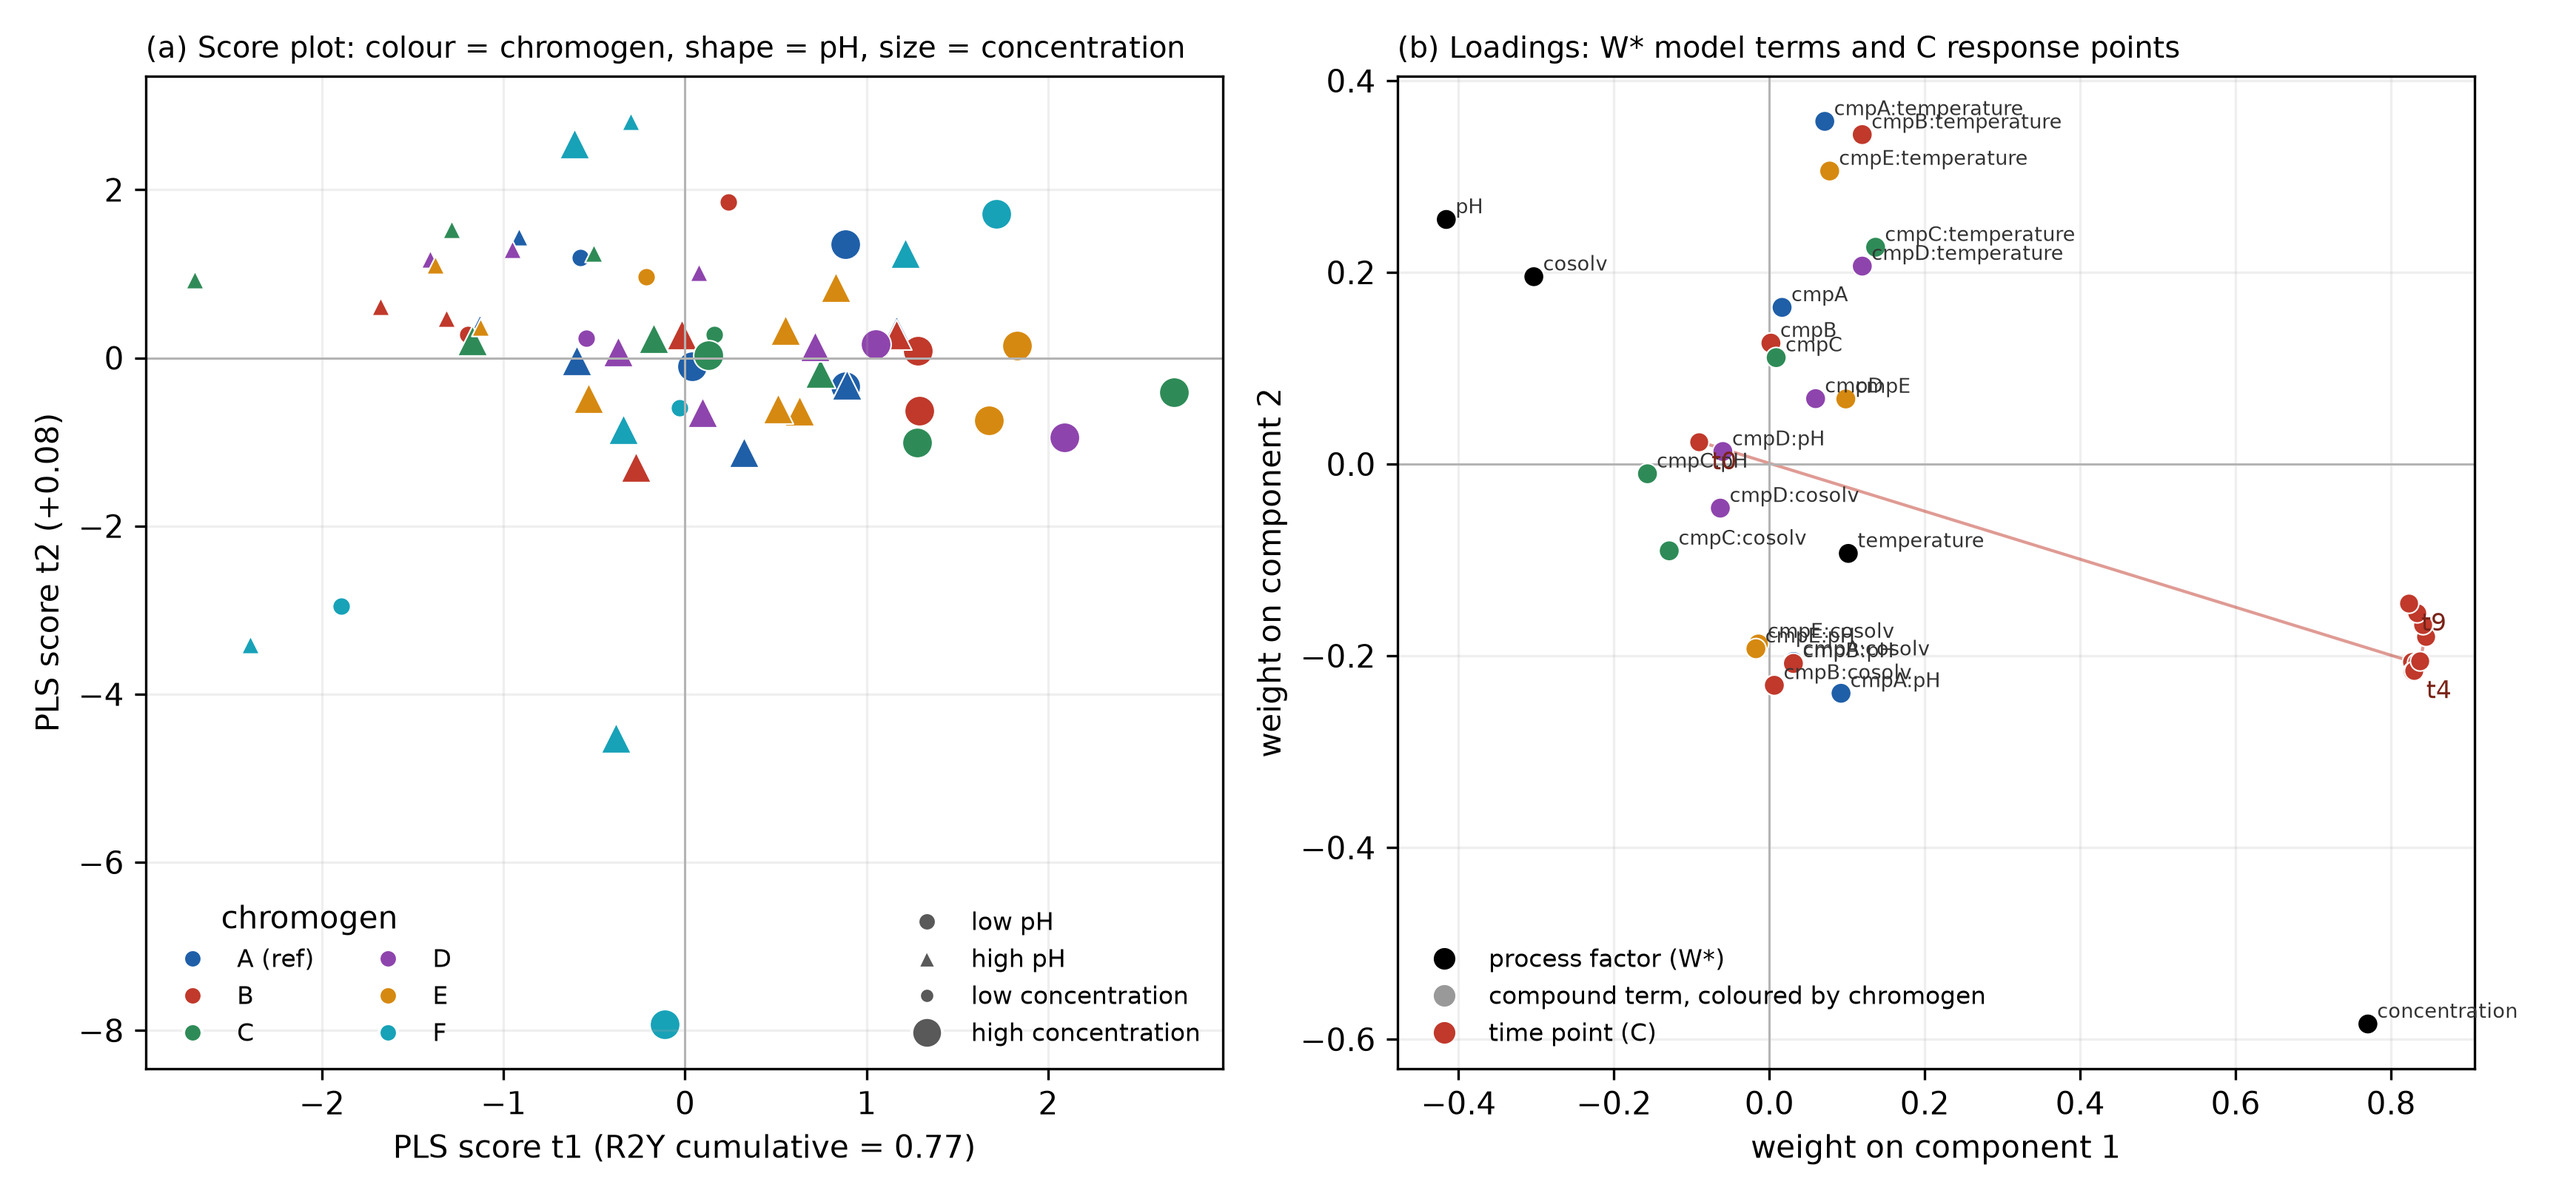
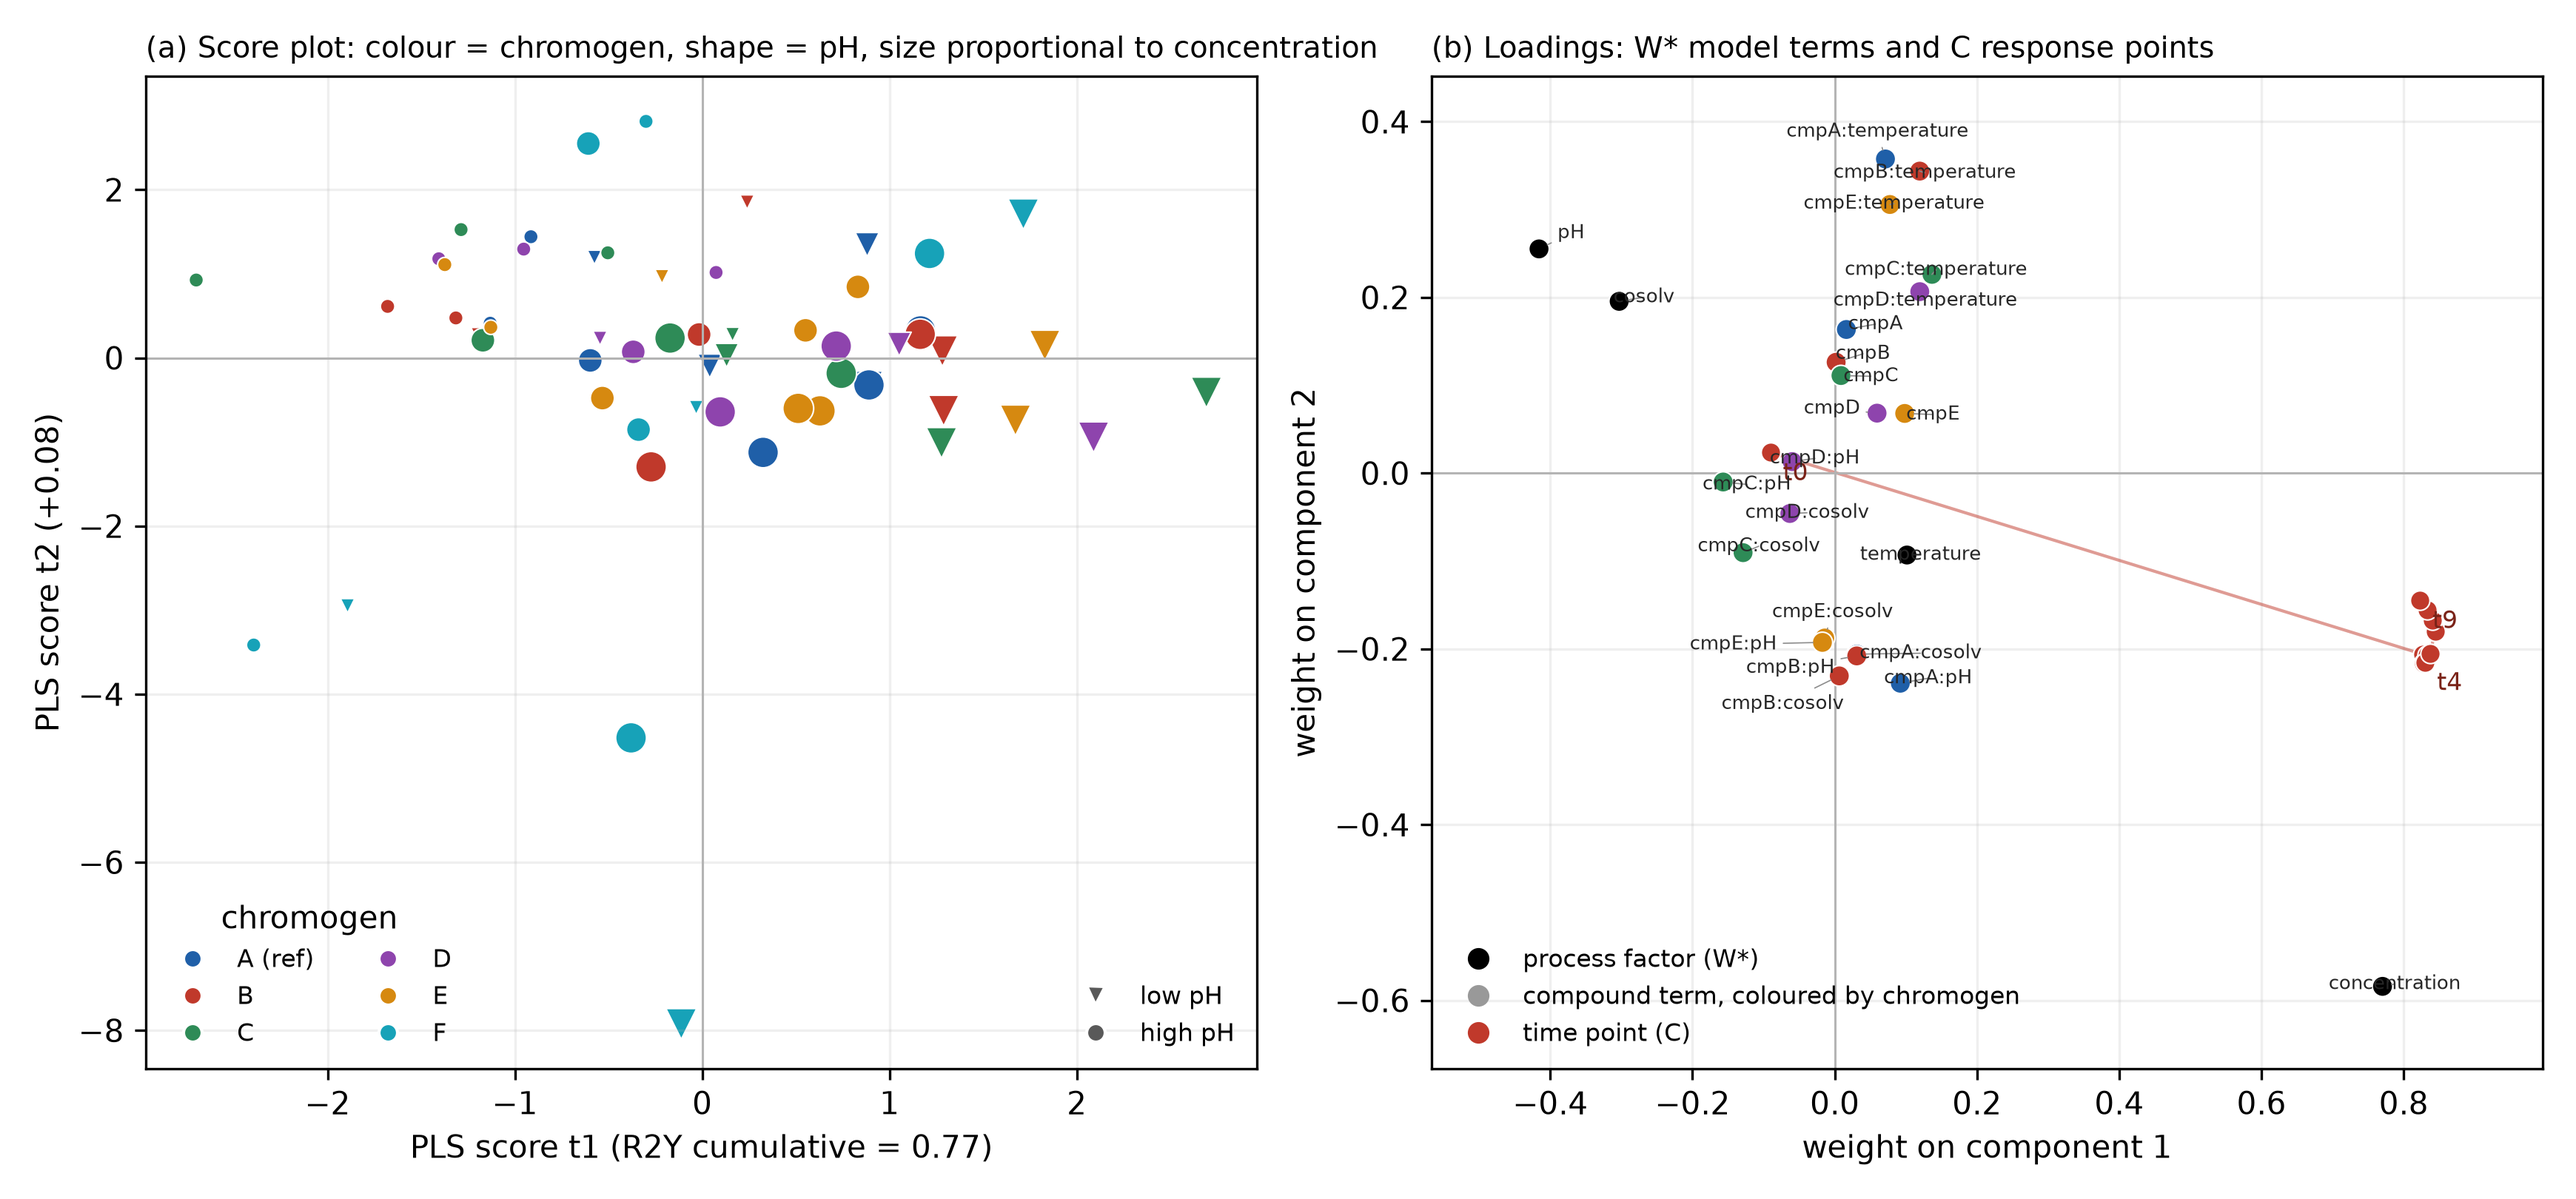
Flip pH shapes, size markers by concentration, declutter loadings labels
Score plot: use a down triangle for low pH and a circle for high pH (flipped
from the previous convention), and make the marker area grow with the coded
concentration rather than switching between two fixed sizes. The encoding
legend now shows only the two pH shapes; the panel title states that size is
proportional to concentration, so no separate concentration markers are drawn.

Loadings: the 24 term labels overlapped badly where the interaction terms
cluster. Add a small deterministic label-repulsion pass (repel overlapping
labels, spring each back toward its anchor to keep leader lines short, and
clamp every label inside the panel) so the labels are legible.

Claude-Session: https://claude.ai/code/session_01TvUM1DPgi2S3JFLjRJTJWj

diff --git a/doe/colour-pls-interaction-scores-loadings.py b/doe/colour-pls-interaction-scores-loadings.py
@@ -48,33 +48,29 @@ conc = adf["concentration"].to_numpy(float)
 
 fig, (axS, axL) = plt.subplots(1, 2, figsize=(11.6, 5.4))
 
-# --- Panel A: scores, colour = compound, shape = pH level, size = concentration level ---
-# Circle for low pH (acidic), up triangle for high pH; small marker at low concentration, large
-# marker at high concentration. Colour stays the chromogen so all three read at once.
+# --- Panel A: scores, colour = compound, shape = pH level, size proportional to concentration ---
+# Down triangle for low pH (acidic), circle for high pH. Marker area grows with the coded
+# concentration, so a bigger marker is a higher concentration. Colour stays the chromogen.
+size = 22 + 78 * (conc + 1) / 2          # coded concentration in [-1, 1] -> marker area
 for c, colour in zip(COMPOUND_LEVELS, palette):
-    for lo_pH, marker in ((True, "o"), (False, "^")):
-        for lo_conc, size in ((True, 34), (False, 96)):
-            m = (compound == c) & ((pH < 0) == lo_pH) & ((conc < 0) == lo_conc)
-            if m.any():
-                axS.scatter(scores[m, 0], scores[m, 1], s=size, color=colour, marker=marker,
-                            edgecolor="w", linewidth=0.5)
+    for lo_pH, marker in ((True, "v"), (False, "o")):
+        m = (compound == c) & ((pH < 0) == lo_pH)
+        if m.any():
+            axS.scatter(scores[m, 0], scores[m, 1], s=size[m], color=colour, marker=marker,
+                        edgecolor="w", linewidth=0.5)
 axS.axhline(0, color="0.7", lw=0.7)
 axS.axvline(0, color="0.7", lw=0.7)
 axS.set_xlabel(f"PLS score t1 (R2Y cumulative = {r2_1:.2f})")
 axS.set_ylabel(f"PLS score t2 (+{r2_2:.2f})")
-axS.set_title("(a) Score plot: colour = chromogen, shape = pH, size = concentration",
+axS.set_title("(a) Score plot: colour = chromogen, shape = pH, size proportional to concentration",
               fontsize=9.5, loc="left")
 
 colour_handles = [Line2D([], [], marker="o", ls="", color=colour, markeredgecolor="w",
                          label="A (ref)" if c == "A" else c)
                   for c, colour in zip(COMPOUND_LEVELS, palette)]
 enc_handles = [
-    Line2D([], [], marker="o", ls="", color="0.35", markeredgecolor="w", label="low pH"),
-    Line2D([], [], marker="^", ls="", color="0.35", markeredgecolor="w", label="high pH"),
-    Line2D([], [], marker="o", ls="", color="0.35", markeredgecolor="w", markersize=5,
-           label="low concentration"),
-    Line2D([], [], marker="o", ls="", color="0.35", markeredgecolor="w", markersize=10,
-           label="high concentration"),
+    Line2D([], [], marker="v", ls="", color="0.35", markeredgecolor="w", label="low pH"),
+    Line2D([], [], marker="o", ls="", color="0.35", markeredgecolor="w", label="high pH"),
 ]
 leg1 = axS.legend(handles=colour_handles, frameon=False, fontsize=8, ncol=2, loc="lower left",
                   title="chromogen")
@@ -95,9 +91,67 @@ def term_compound(name):
 wcolours = [compound_colour[term_compound(n)] if term_compound(n) else "black" for n in wstar.index]
 axL.scatter(wstar.iloc[:, 0], wstar.iloc[:, 1], s=44, c=wcolours, marker="o",
             edgecolor="w", linewidth=0.5, zorder=3)
-for name, (a, b) in zip(wstar.index, wstar.iloc[:, :2].to_numpy()):
-    axL.annotate(short(name), (a, b), fontsize=6.5, color="0.2",
-                 xytext=(3, 2), textcoords="offset points")
+
+# Fix the axis extent (over both point clouds, with padding) before the label repulsion, so the
+# transforms stay stable while labels move and none is pushed off the panel.
+allxy = np.vstack([wstar.iloc[:, :2].to_numpy(), cweights.iloc[:, :2].to_numpy()])
+padx = 0.12 * (allxy[:, 0].max() - allxy[:, 0].min())
+pady = 0.10 * (allxy[:, 1].max() - allxy[:, 1].min())
+axL.set_xlim(allxy[:, 0].min() - padx, allxy[:, 0].max() + padx)
+axL.set_ylim(allxy[:, 1].min() - pady, allxy[:, 1].max() + pady)
+
+# The 24 term labels overlap badly where the interaction terms cluster. Place each label with a
+# leader line and push the labels apart with a small deterministic repulsion pass (a light-weight
+# stand-in for adjustText: no randomness, so the layout is reproducible).
+anns = [axL.annotate(short(name), xy=(a, b), xytext=(a, b), textcoords="data", fontsize=6.3,
+                     color="0.15", zorder=4,
+                     arrowprops=dict(arrowstyle="-", lw=0.4, color="0.55", shrinkA=0, shrinkB=3))
+        for name, (a, b) in zip(wstar.index, wstar.iloc[:, :2].to_numpy())]
+
+
+def repel_labels(ax, annotations, anchor_disp, iterations=600, step=1.3, spring=0.02):
+    """Separate overlapping labels by repelling them, with a spring back to each anchor so the
+    leader lines stay short, and a clamp keeping every label inside the axes. Deterministic."""
+    fig.canvas.draw()
+    rend = fig.canvas.get_renderer()
+    inv = ax.transData.inverted()
+    axbb = ax.get_window_extent(rend)
+    for _ in range(iterations):
+        boxes = [a.get_window_extent(rend) for a in annotations]
+        any_move = False
+        for i, a in enumerate(annotations):
+            bi = boxes[i]
+            cix, ciy = (bi.x0 + bi.x1) / 2, (bi.y0 + bi.y1) / 2
+            hw, hh = (bi.x1 - bi.x0) / 2, (bi.y1 - bi.y0) / 2
+            rx = ry = 0.0
+            for j, bj in enumerate(boxes):
+                if i != j and bi.overlaps(bj):
+                    ox, oy = cix - (bj.x0 + bj.x1) / 2, ciy - (bj.y0 + bj.y1) / 2
+                    norm = (ox * ox + oy * oy) ** 0.5 or 1.0
+                    rx += ox / norm
+                    ry += oy / norm
+            ax_, ay_ = anchor_disp[i]
+            for px, py in anchor_disp:                       # keep labels off the markers
+                ox, oy = cix - px, ciy - py
+                d2 = ox * ox + oy * oy
+                if d2 < 13 ** 2:
+                    norm = d2 ** 0.5 or 1.0
+                    rx += 0.3 * ox / norm
+                    ry += 0.3 * oy / norm
+            rnorm = (rx * rx + ry * ry) ** 0.5
+            mx = (step * rx / rnorm if rnorm else 0.0) + spring * (ax_ - cix)
+            my = (step * ry / rnorm if rnorm else 0.0) + spring * (ay_ - ciy)
+            if abs(mx) > 0.05 or abs(my) > 0.05:
+                nx = min(max(cix + mx, axbb.x0 + hw), axbb.x1 - hw)
+                ny = min(max(ciy + my, axbb.y0 + hh), axbb.y1 - hh)
+                px0, py0 = ax.transData.transform(a.get_position())
+                a.set_position(inv.transform((px0 + (nx - cix), py0 + (ny - ciy))))
+                any_move = True
+        if not any_move:
+            break
+
+
+repel_labels(axL, anns, axL.transData.transform(wstar.iloc[:, :2].to_numpy()))
 
 # Time points t0 -> t9: red circles, joined by a faint trajectory line.
 tvals = cweights.iloc[:, :2].to_numpy()
